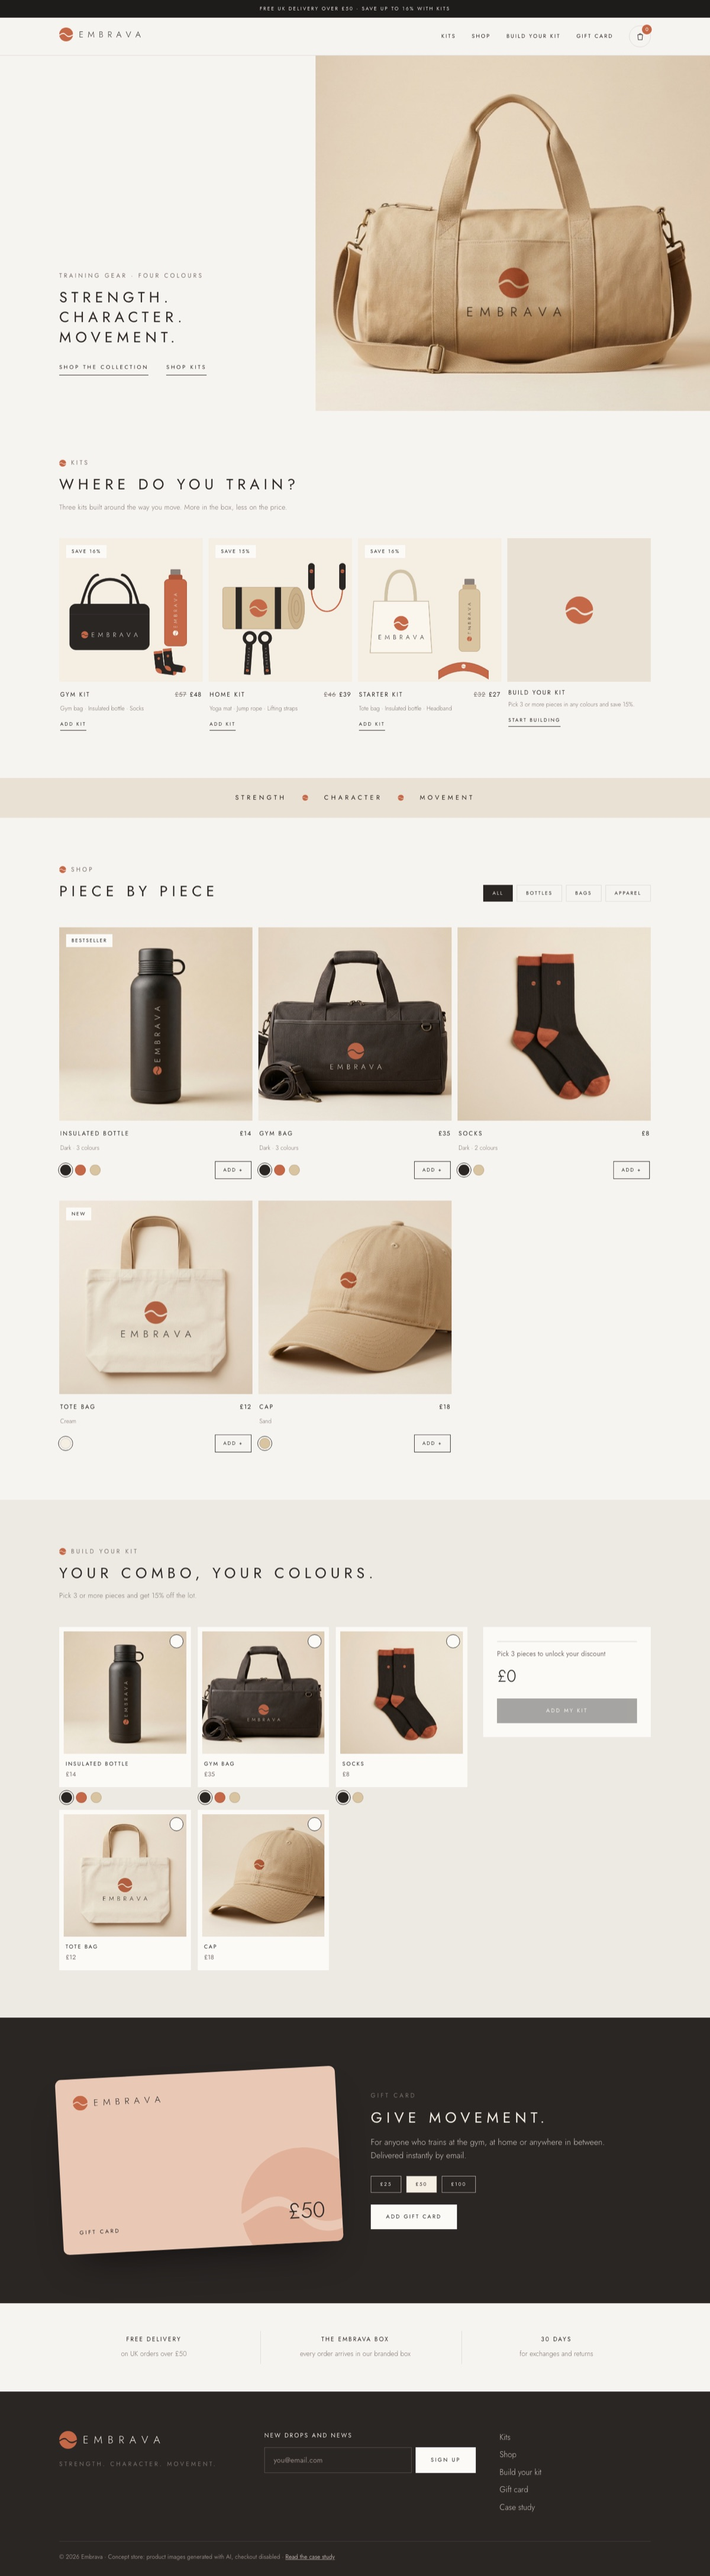
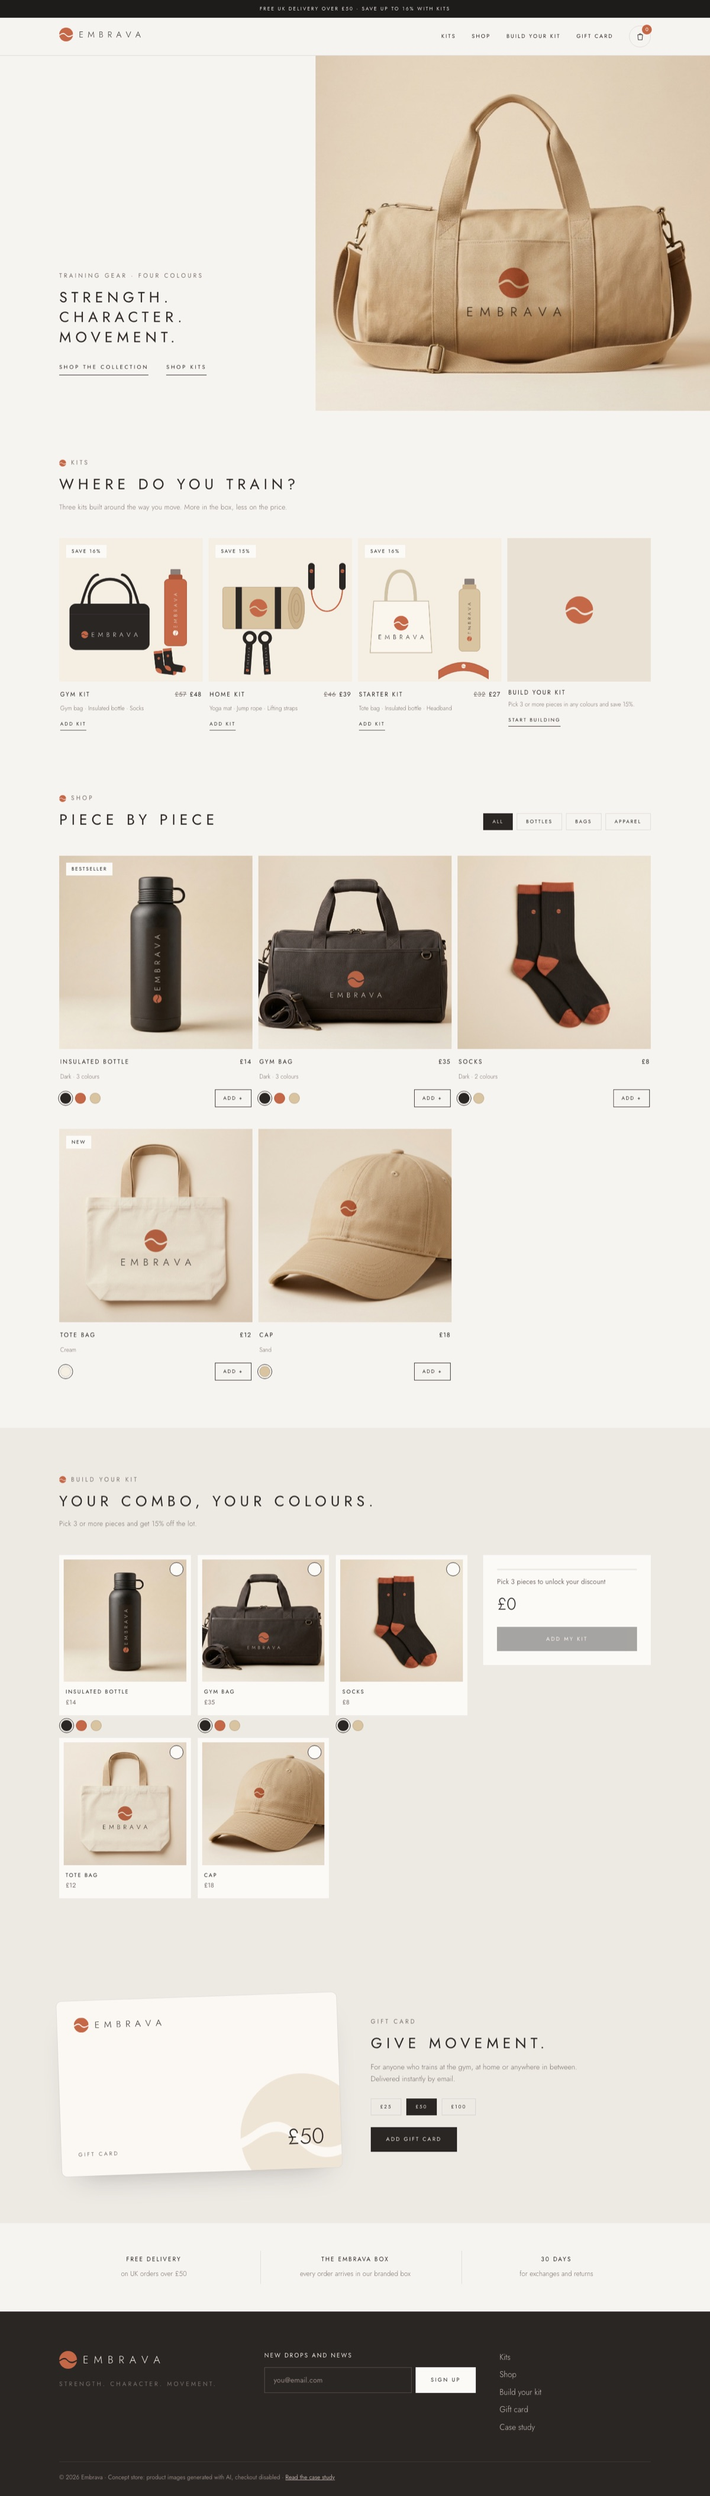
Lighten the gift card section and remove the brand band

diff --git a/styles.css b/styles.css
@@ -132,6 +132,7 @@ strong { font-weight: 500; }
 /* Sections */
 .section { padding: 96px 0; }
 .section--tight { padding: 56px 0; }
+#kits { padding-bottom: 32px; }
 .section--sand { background: var(--surface-2); }
 .section__head { margin-bottom: 52px; max-width: 780px; }
 .section__head--row { display: flex; justify-content: space-between; align-items: flex-end; gap: 24px; max-width: none; flex-wrap: wrap; }
@@ -156,11 +157,6 @@ strong { font-weight: 500; }
 .kit__link:hover { color: var(--muted); border-color: var(--muted); }
 .kit--custom .kit__media { display: grid; place-items: center; background: #E9E1D3; }
 .kit--custom .kit__media svg { width: 56px; height: 56px; color: var(--terracotta); }
-
-/* Brand band: one slim, soft line */
-.band { background: #E9E1D3; padding: 30px 16px; }
-.band__line { margin: 0; display: flex; justify-content: center; align-items: center; flex-wrap: wrap; gap: 14px 32px; font-size: 13px; letter-spacing: .4em; text-transform: uppercase; }
-.band__line svg { width: 12px; height: 12px; color: var(--terracotta); flex-shrink: 0; }
 
 /* Filters */
 .filters { display: flex; gap: 8px; flex-wrap: wrap; }
@@ -229,27 +225,25 @@ strong { font-weight: 500; }
 .pick[aria-pressed="true"] .pick__check { background: var(--dark); }
 .pick[aria-pressed="true"] .pick__check svg { opacity: 1; }
 
-/* Gift */
-.gift { background: var(--dark); color: var(--on-dark); padding: 112px 0; overflow: hidden; }
+/* Gift: light like the rest of the page */
+.gift { background: var(--surface-2); color: var(--dark); padding: 104px 0; overflow: hidden; }
 .gift__inner { display: grid; grid-template-columns: 1fr 1fr; gap: 64px; align-items: center; }
 .gift__card {
   position: relative; overflow: hidden;
-  aspect-ratio: 1.6; border-radius: 12px; padding: 34px;
-  background: var(--blush); color: var(--dark); transform: rotate(-3deg);
-  box-shadow: 0 40px 80px -40px rgba(0, 0, 0, .7);
+  aspect-ratio: 1.6; border-radius: 10px; padding: 34px;
+  background: #FBF8F3; color: var(--dark); transform: rotate(-2deg);
+  box-shadow: 0 30px 60px -36px rgba(42, 38, 36, .35), 0 0 0 1px rgba(42, 38, 36, .06);
   display: flex; flex-direction: column; justify-content: space-between;
 }
 .gift__card .logo { position: relative; }
 .gift__card .logo__sym { width: 30px; height: 30px; }
 .gift__card .logo__word { height: 13px; }
-.gift__wave { position: absolute; width: 44%; height: auto; aspect-ratio: 1; right: -8%; bottom: -16%; color: var(--terracotta-soft); opacity: .5; }
-.gift__label { position: relative; letter-spacing: .3em; text-transform: uppercase; font-size: 11px; color: var(--dark); }
+.gift__wave { position: absolute; width: 44%; height: auto; aspect-ratio: 1; right: -8%; bottom: -16%; color: var(--sand); opacity: .35; }
+.gift__label { position: relative; letter-spacing: .3em; text-transform: uppercase; font-size: 11px; color: var(--muted); }
 .gift__amount { position: absolute; right: 34px; bottom: 30px; font-size: 44px; font-weight: 300; color: var(--dark); }
-.gift__copy p:not(.eyebrow) { color: #CFC5BC; font-weight: 300; font-size: 17px; margin: 16px 0 28px; max-width: 28em; }
+.gift__copy p:not(.eyebrow) { color: var(--muted); font-weight: 300; font-size: 15px; margin: 16px 0 28px; max-width: 28em; }
 .gift__amounts { display: flex; gap: 10px; margin-bottom: 24px; flex-wrap: wrap; }
-.gift__amounts .chip { border-color: var(--grey); color: var(--on-dark); }
-.gift__amounts .chip:hover { background: rgba(255, 255, 255, .1); }
-.gift__amounts .chip[aria-checked="true"] { background: var(--on-dark); color: var(--dark); }
+.gift__amounts .chip[aria-checked="true"] { background: var(--dark); border-color: var(--dark); color: var(--on-dark); }
 
 /* Promises */
 .promises { display: grid; grid-template-columns: repeat(3, 1fr); gap: 24px; text-align: center; }
@@ -340,7 +334,6 @@ strong { font-weight: 500; }
   .logo__word { height: 10px; }
   .kits, .grid { grid-template-columns: 1fr; }
   .builder__picks { grid-template-columns: repeat(2, 1fr); }
-  .band__line { gap: 10px 18px; font-size: 11px; letter-spacing: .3em; }
   .promises { grid-template-columns: 1fr; }
   .promises div { border-left: 0; border-top: 1px solid var(--line); padding-top: 18px; }
   .promises div:first-child { border-top: 0; }

diff --git a/case-study.html b/case-study.html
@@ -188,8 +188,8 @@
           <p>Launch prices sit in the mid-market: below the big names, clearly above budget gear. Premium enough to signal quality, honest enough for a first purchase.</p>
         </article>
         <article>
-          <h3>The brand board, live</h3>
-          <p>A full-width band of terracotta, dark and sand blocks carries the tagline across the page, echoing the original brand presentation.</p>
+          <h3>An editorial finish</h3>
+          <p>Spaced capitals, square corners and quiet neutrals give the store a calm, fashion-led feel. Terracotta is kept for the symbol and the products, so they stand out.</p>
         </article>
       </div>
     </div>
@@ -205,7 +205,7 @@
       </div>
       <div class="cs-split__body">
         <div class="cs-scroll" tabindex="0" aria-label="Full homepage screenshot, scrollable">
-          <img src="assets/case/home-full.jpg" alt="Full-length screenshot of the Embrava homepage: hero, kits, brand band, shop grid, build your kit, gift card and footer" width="1200" height="4351" loading="lazy">
+          <img src="assets/case/home-full.jpg" alt="Full-length screenshot of the Embrava homepage: hero, kits, shop grid, build your kit, gift card and footer" width="1200" height="4217" loading="lazy">
         </div>
       </div>
     </div>

diff --git a/index.html b/index.html
@@ -69,9 +69,6 @@
   </section>
 
   <!-- BRAND BAND -->
-  <section class="band" aria-label="Brand values">
-    <p class="band__line"><span>Strength</span><svg viewBox="0 0 164 164" aria-hidden="true"><use href="#symbol"/></svg><span>Character</span><svg viewBox="0 0 164 164" aria-hidden="true"><use href="#symbol"/></svg><span>Movement</span></p>
-  </section>
 
   <!-- CATALOGUE -->
   <section class="section" id="shop">
@@ -124,7 +121,7 @@
         <h2>Give movement.</h2>
         <p>For anyone who trains at the gym, at home or anywhere in between. Delivered instantly by email.</p>
         <div class="gift__amounts" role="radiogroup" aria-label="Amount" data-gift-options></div>
-        <button class="btn btn--light" type="button" data-gift-add>Add gift card</button>
+        <button class="btn btn--dark" type="button" data-gift-add>Add gift card</button>
       </div>
     </div>
   </section>

diff --git a/product.html b/product.html
@@ -104,9 +104,6 @@
     </div>
   </section>
 
-  <section class="band" aria-label="Brand values">
-    <p class="band__line"><span>Strength</span><svg viewBox="0 0 164 164" aria-hidden="true"><use href="#symbol"/></svg><span>Character</span><svg viewBox="0 0 164 164" aria-hidden="true"><use href="#symbol"/></svg><span>Movement</span></p>
-  </section>
 
   <div class="sticky-buy" data-sticky aria-hidden="true">
     <img data-sticky-img src="" alt="">
